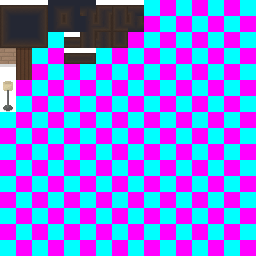
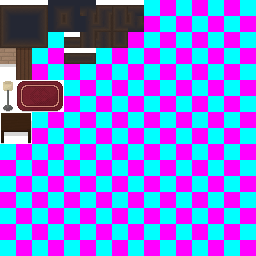
did some stuff

Changed region(s): [[0.0, 0.3125, 0.25, 0.5625]]

diff --git a/Main/GameImpl.cs b/Main/GameImpl.cs
@@ -96,6 +96,15 @@ namespace TownRPG.Main {
             this.Camera = new Camera(this.Player) {Scale = 4.5F};
             this.Camera.FixPosition();
             this.Overlay = new Overlay();
+
+            var tess = new Character("Tess", this.Maps["Town1"], new Vector2(22.5F, 30.5F) * this.Maps["Town1"].Scale);
+            tess.DialogOptions.Enqueue(new DialogMessage("Hey! I'm Tess. How are you?"));
+            tess.DialogOptions.Enqueue(new DialogMessage("Did you know you can go into the blue house south-west of town?"));
+            tess.PathfindTo(new Point(7, 42), () => {
+                tess.StopAndFace(2);
+                tess.DialogOptions.Enqueue(new DialogMessage("I really enjoy the river. It's nice and calm."));
+            });
+            tess.Map.AddObject(tess);
         }
 
         protected override void Update(GameTime gameTime) {
@@ -305,29 +314,23 @@ namespace TownRPG.Main {
     public class VirtualTime {
 
         private const float SecondsPerMinute = 0.25F;
-        private float minuteCounter;
 
-        public float TotalMinutes;
-        public int Minute;
-        public int Hour;
-        public int Day;
+        public float TotalMinutes = 60 * 7;
+
+        public int Minute {
+            get { return (int) this.TotalMinutes % 60; }
+        }
+
+        public int Hour {
+            get { return (int) this.TotalMinutes / 60; }
+        }
+
+        public int Day {
+            get { return (int) this.TotalMinutes / 60 / 24; }
+        }
 
         public void Update(GameTime time) {
-            var passedMinutes = (float) time.ElapsedGameTime.TotalSeconds / SecondsPerMinute;
-            this.TotalMinutes += passedMinutes;
-            this.minuteCounter += passedMinutes;
-            while (this.minuteCounter >= 1) {
-                this.minuteCounter -= 1;
-                this.Minute++;
-                if (this.Minute >= 60) {
-                    this.Minute = 0;
-                    this.Hour++;
-                    if (this.Hour >= 24) {
-                        this.Hour = 0;
-                        this.Day++;
-                    }
-                }
-            }
+            this.TotalMinutes += (float) time.ElapsedGameTime.TotalSeconds / SecondsPerMinute;
         }
 
         public string TimeToString() {

diff --git a/Maps/Objects/Character.cs b/Maps/Objects/Character.cs
@@ -167,6 +167,12 @@ namespace TownRPG.Maps.Objects {
             this.UpdateAnimation();
         }
 
+        public void StopAndFace(int direction) {
+            this.StopMoving();
+            this.Direction = direction;
+            this.UpdateAnimation();
+        }
+
         public delegate void OnPathEnded();
 
     }
